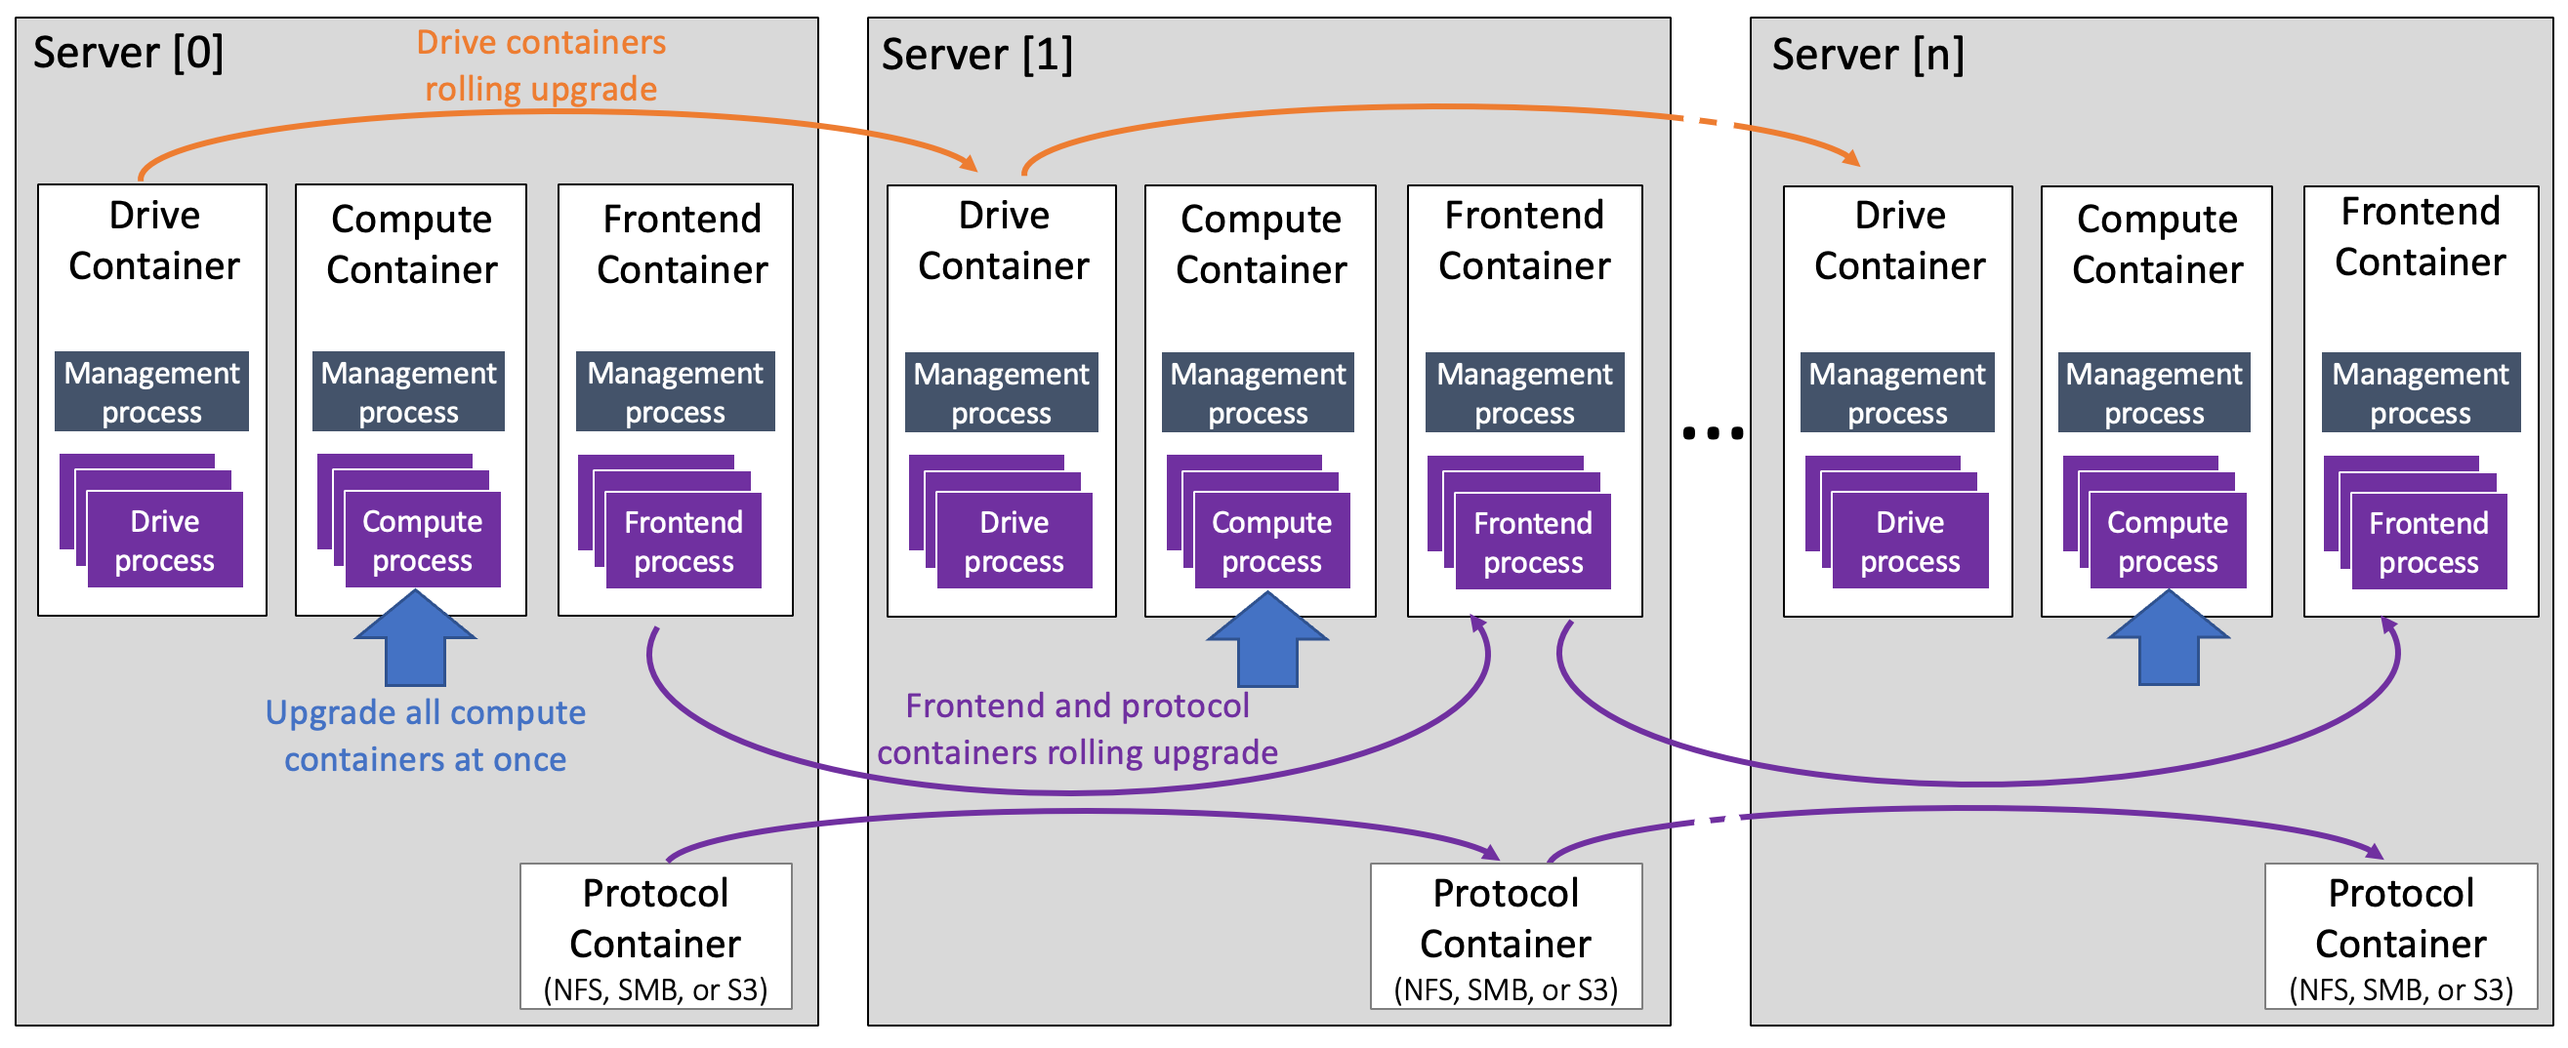
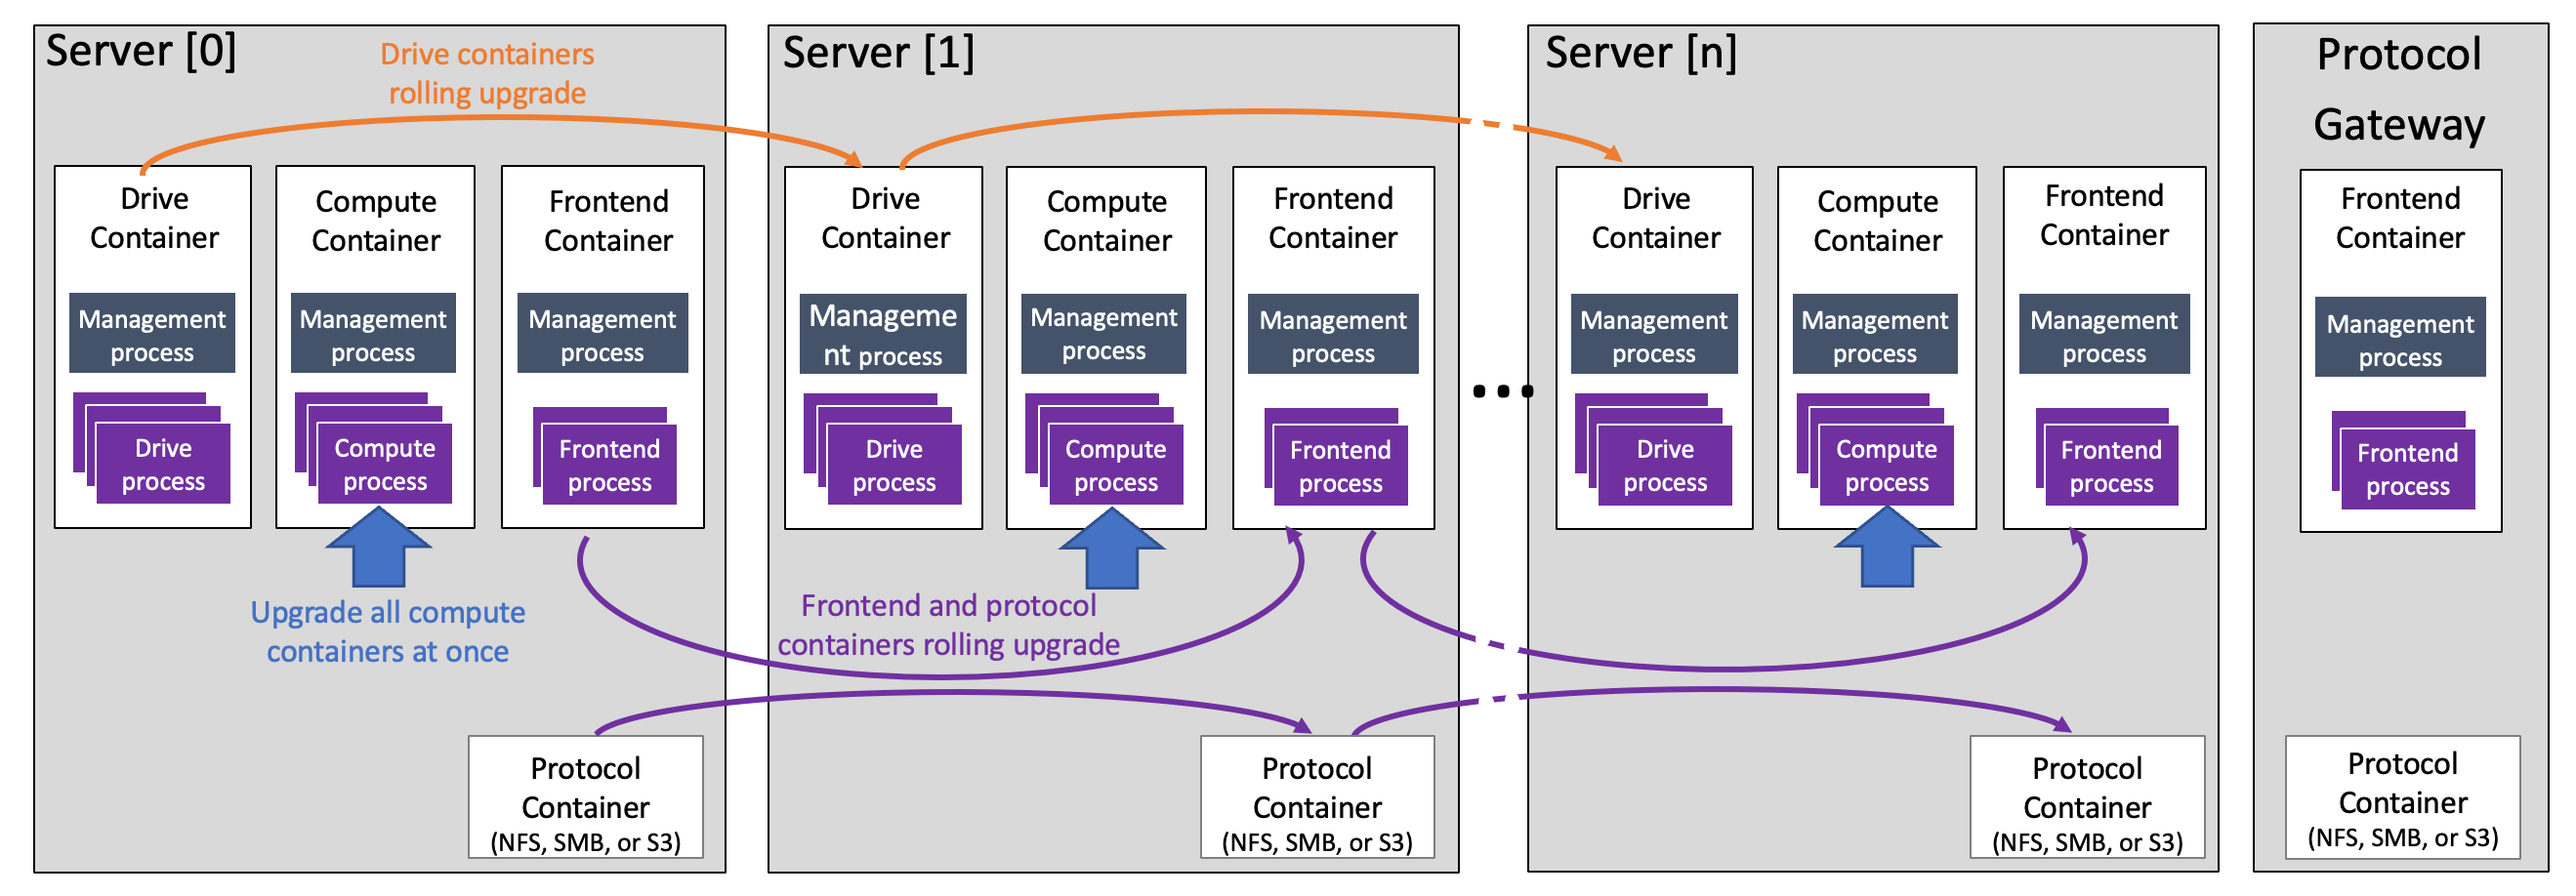
GITBOOK-195: Installation and upgrade final updates

diff --git a/SUMMARY.md b/SUMMARY.md
@@ -29,7 +29,7 @@
   * [Prepare the system for WEKA software installation](install/bare-metal/setting-up-the-hosts/README.md)
     * [Enable the SR-IOV](install/bare-metal/setting-up-the-hosts/sr-iov-enablement.md)
   * [Obtain the WEKA software installation package](install/bare-metal/obtaining-the-weka-install-file.md)
-  * [WEKA system installation with multiple containers](install/bare-metal/weka-system-installation-with-multiple-containers-using-the-cli.md)
+  * [WEKA cluster installation](install/bare-metal/weka-system-installation-with-multiple-containers-using-the-cli.md)
   * [WEKA legacy system installation process](install/bare-metal/using-cli.md)
   * [Add clients](install/bare-metal/adding-clients-bare-metal.md)
 * [WEKA installation on AWS](install/aws/README.md)

diff --git a/usage/upgrading-weka-versions.md b/usage/upgrading-weka-versions.md
@@ -38,7 +38,7 @@ Once you run the upgrade command in `ndu` mode, the following occurs:
 1. Downloading the version and preparing all backend servers.
 2. Rolling upgrade of the **drive** containers.
 3. Upgrading all **compute** containers at once.
-4. Rolling upgrade of the **frontend** and **protocol** containers.
+4. Rolling upgrade of the **frontend** and **protocol** containers and the protocol gateways.
 
 <figure><img src="../.gitbook/assets/NDU_process_4.1.png" alt=""><figcaption><p>NDU process at a glance</p></figcaption></figure>
 

diff --git a/install/bare-metal/weka-system-installation-with-multiple-containers-using-the-cli.md b/install/bare-metal/weka-system-installation-with-multiple-containers-using-the-cli.md
@@ -1,11 +1,11 @@
 ---
 description: >-
-  This page provides a detailed workflow for WEKA system installation with
+  This page provides a detailed workflow for WEKA cluster installation with
   multiple containers using the CLI. These are complementary details for the
   quick installation guide.
 ---
 
-# WEKA system installation with multiple containers
+# WEKA cluster installation
 
 ## Workflow
 
